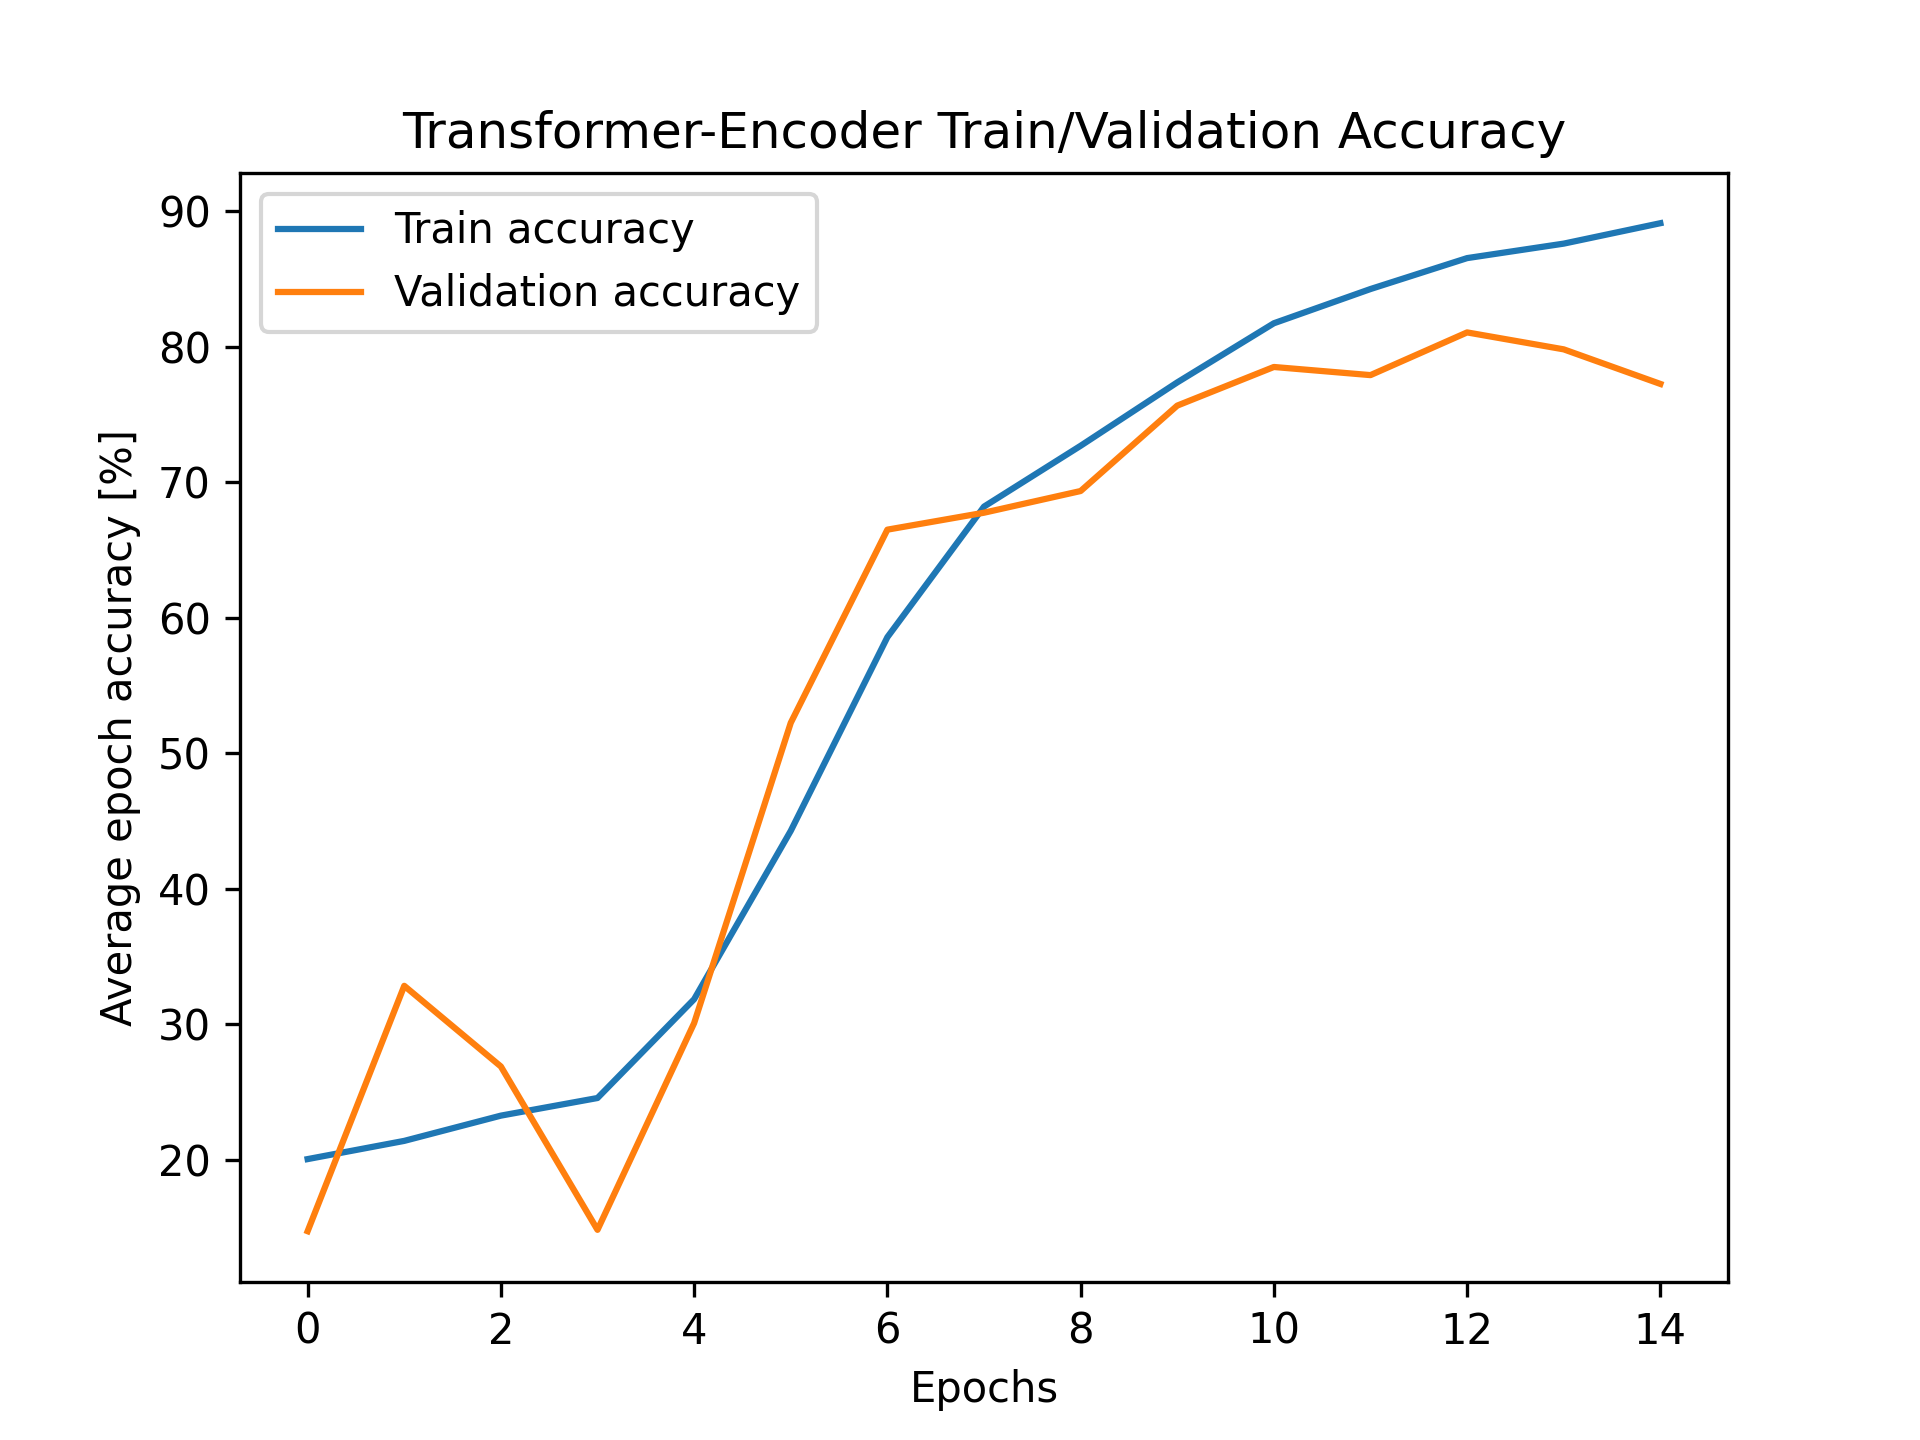
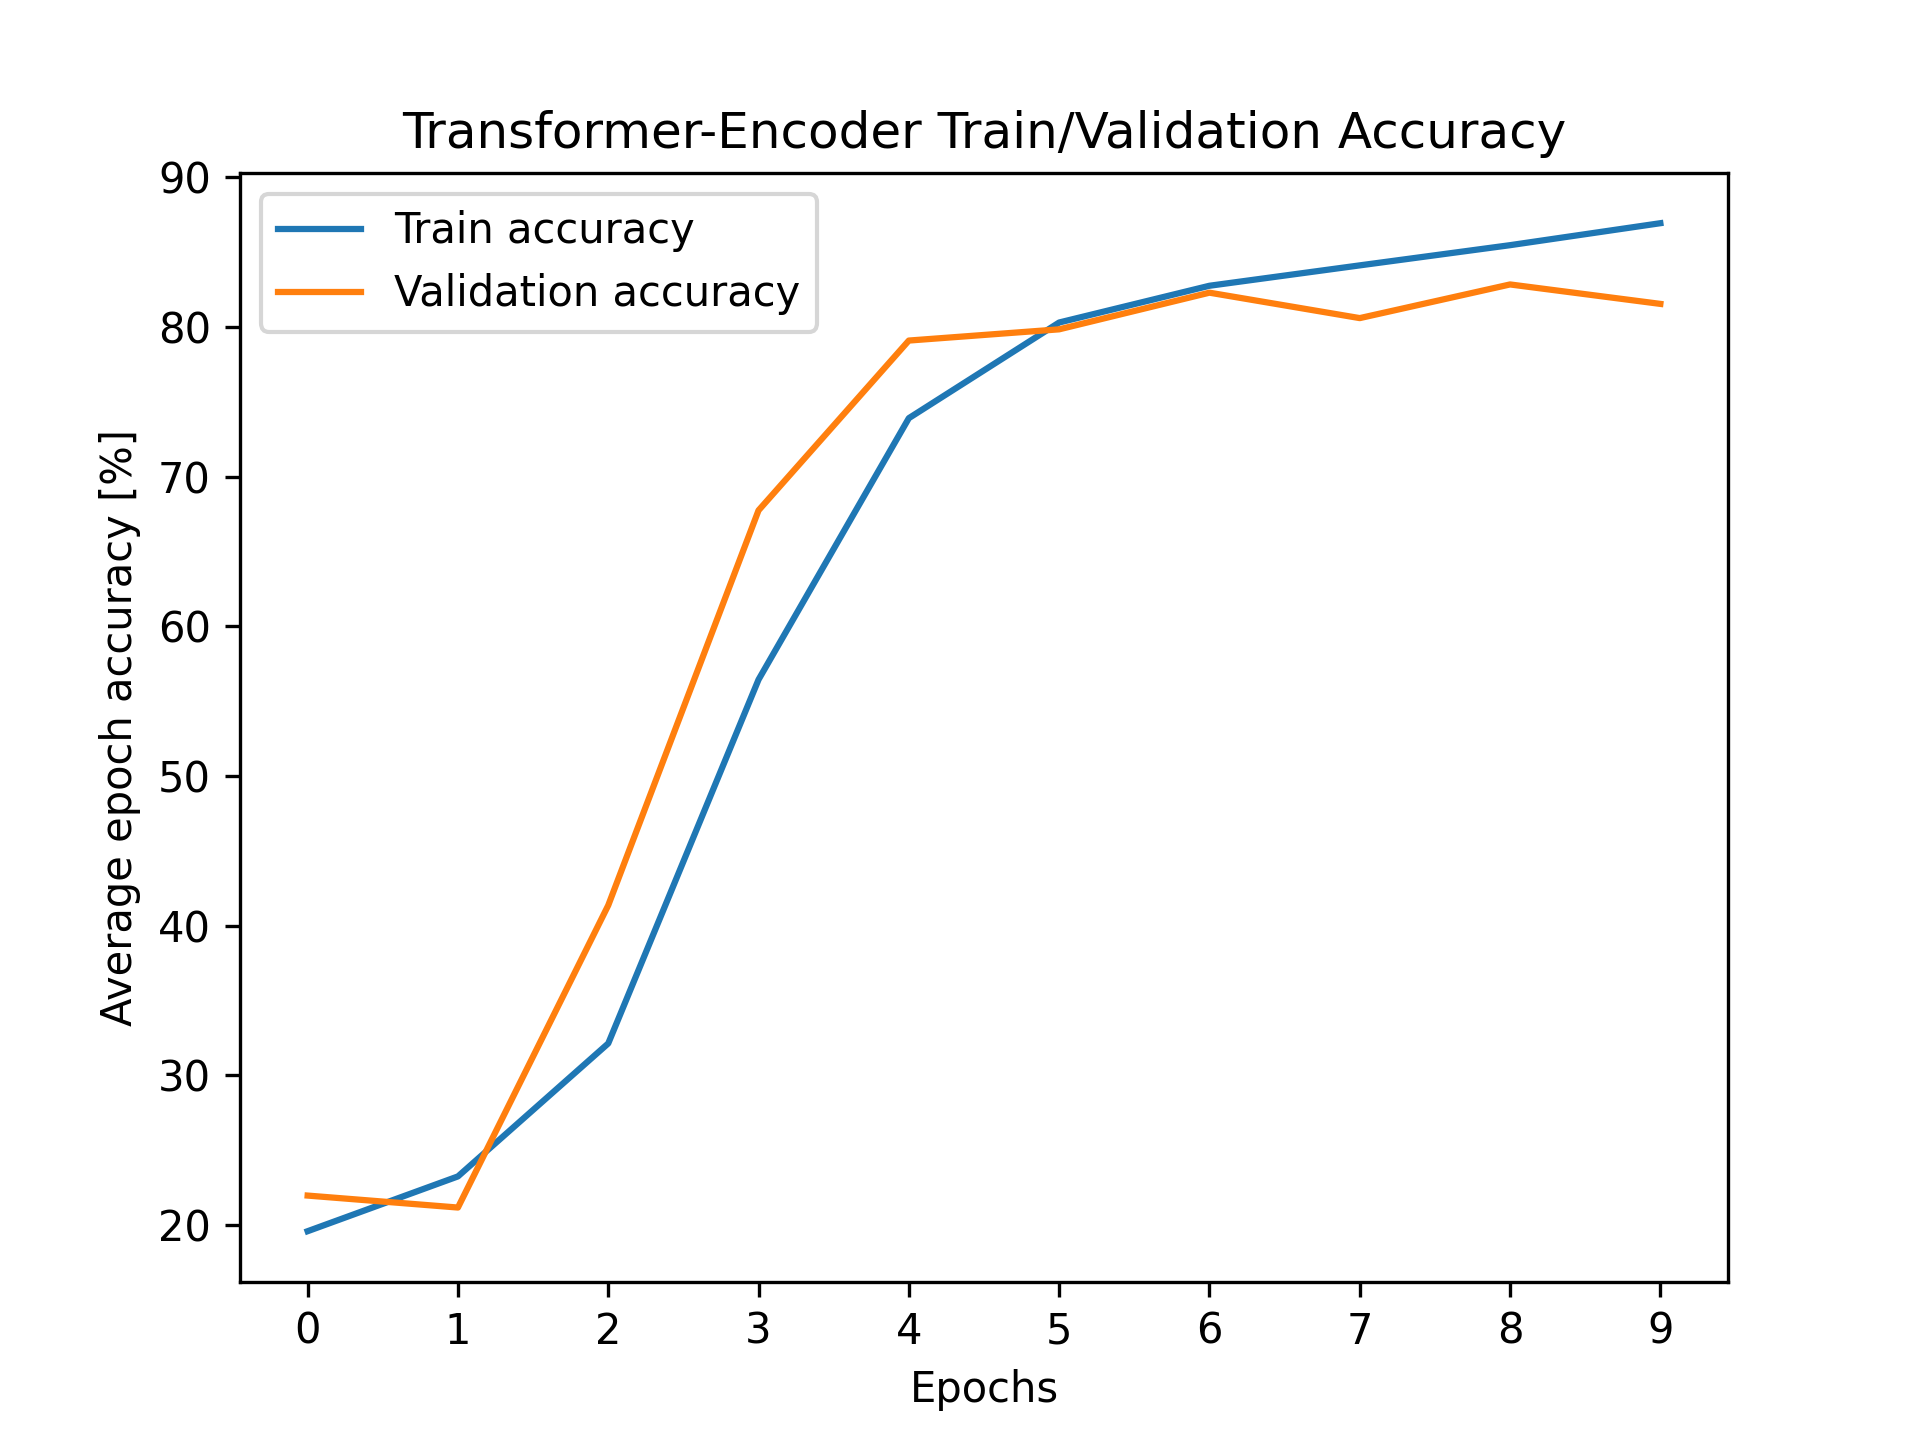
Update encoder

diff --git a/encoder_model.py b/encoder_model.py
@@ -22,16 +22,16 @@ graph_dir = "./graphs/"
 batch_size = 16
 
 # Model hyperparameters
-embedding_dim = 64
-num_layers = 6
+embedding_dim = 128
+num_layers = 4
 num_heads = 8
-dropout_prob = 0.65
+dropout_prob = 0.6
 feedforward_dim = 512
 
 # Training hyperparameters
-epochs = 15
+epochs = 10
 learning_rate = 0.0005
-weight_decay = 0.00025
+weight_decay = 0.001
 
 # Transformer model
 class Transformer(nn.Module):
